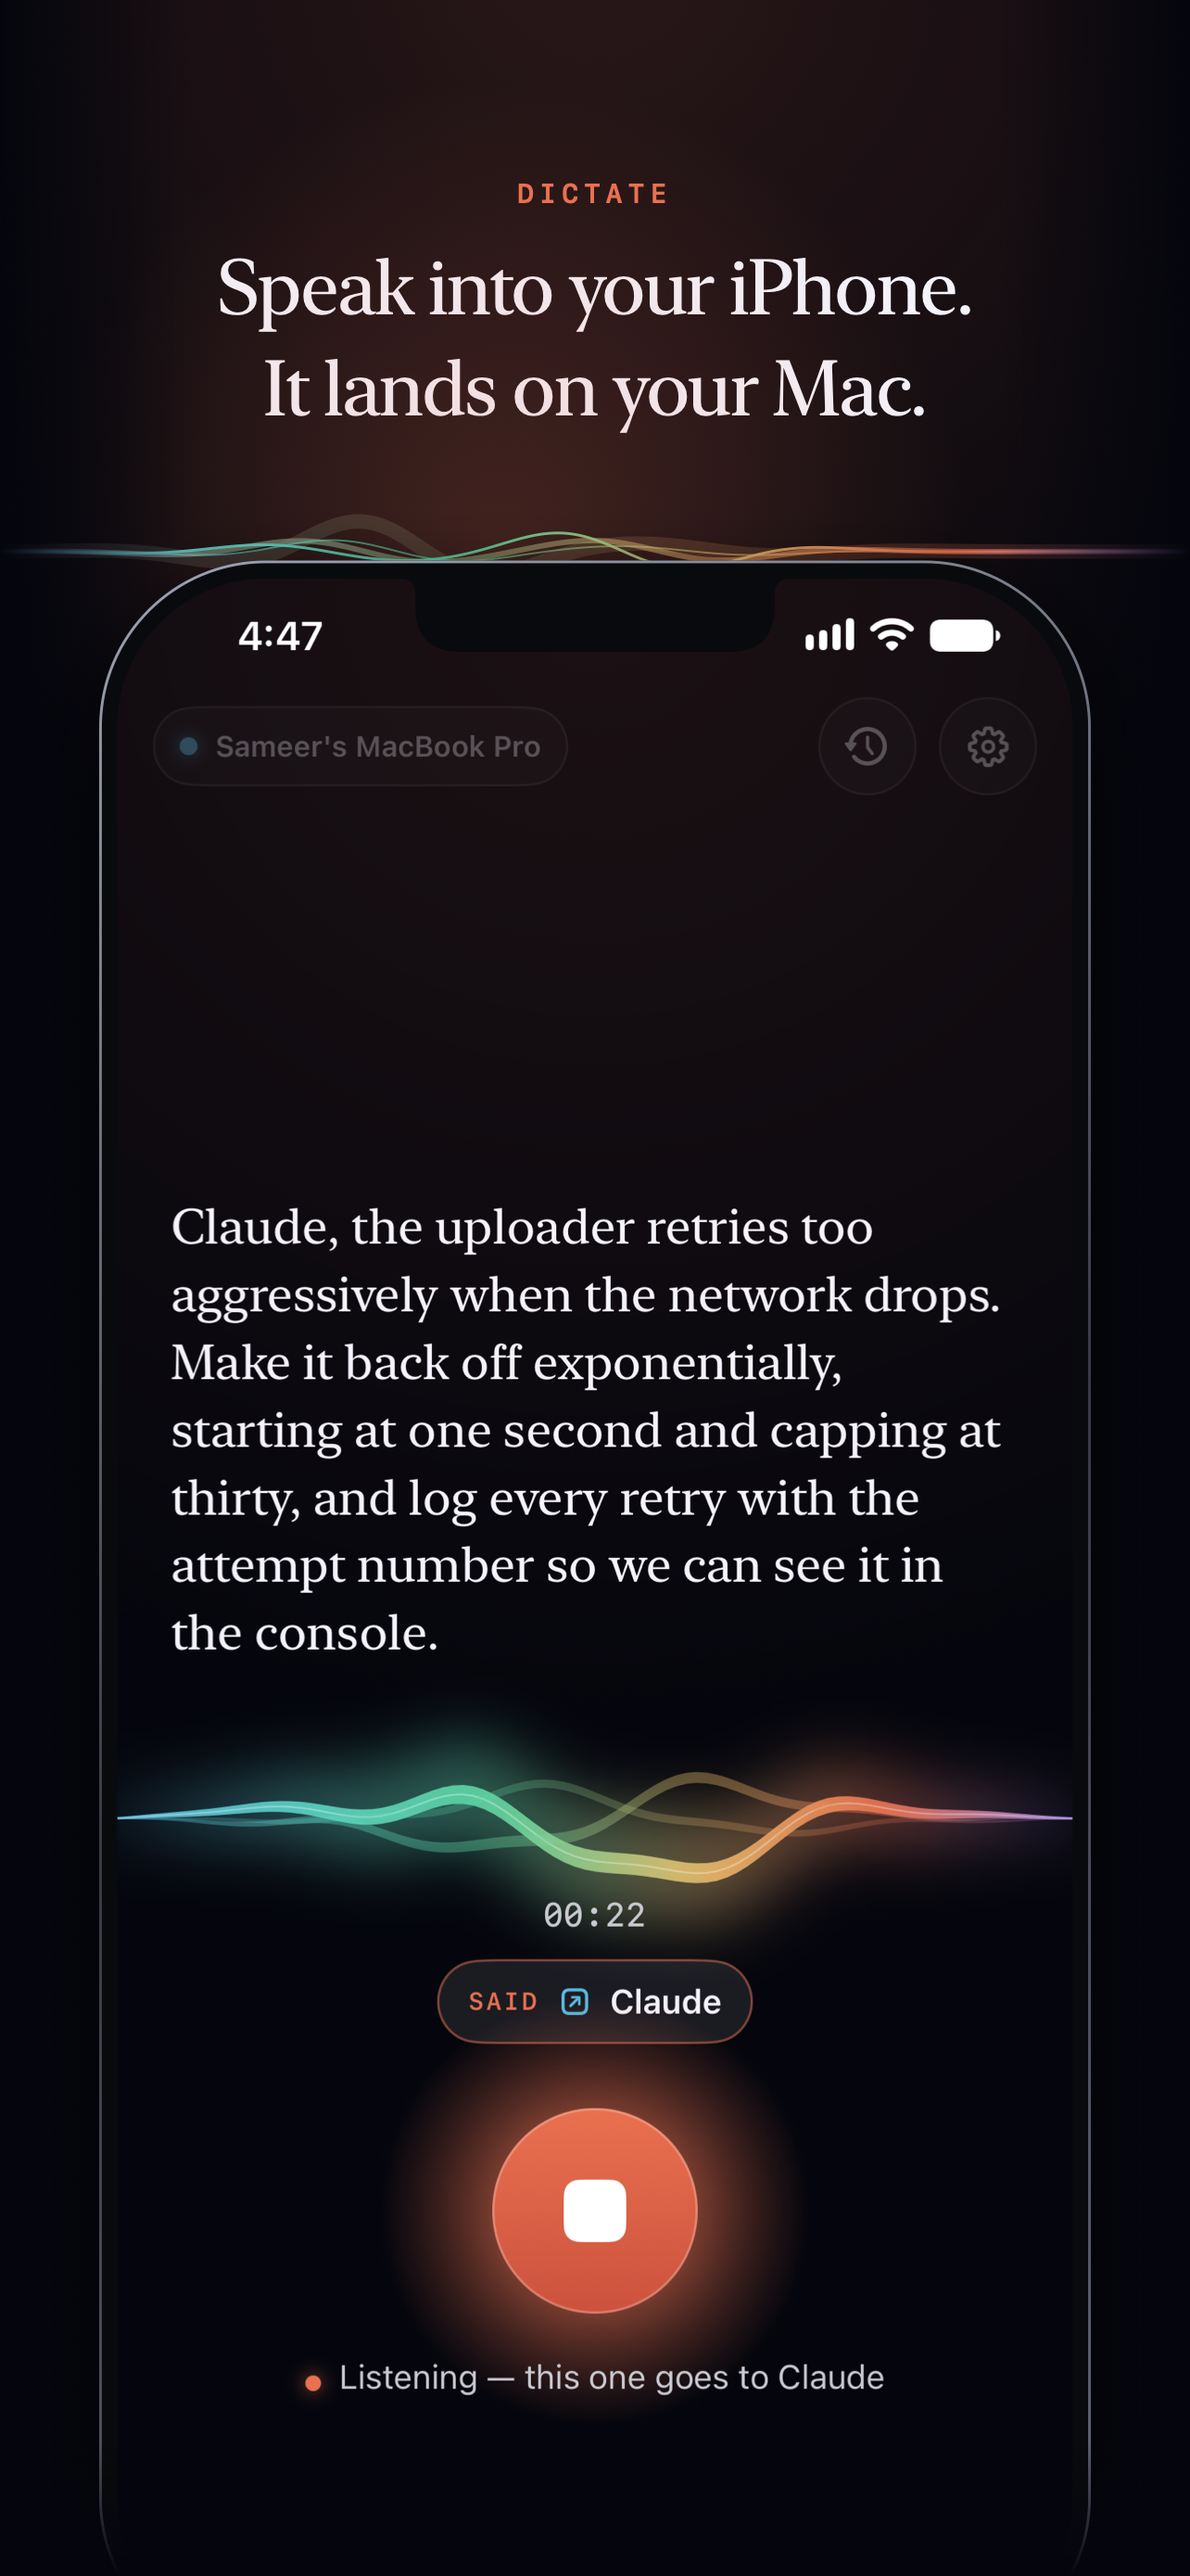
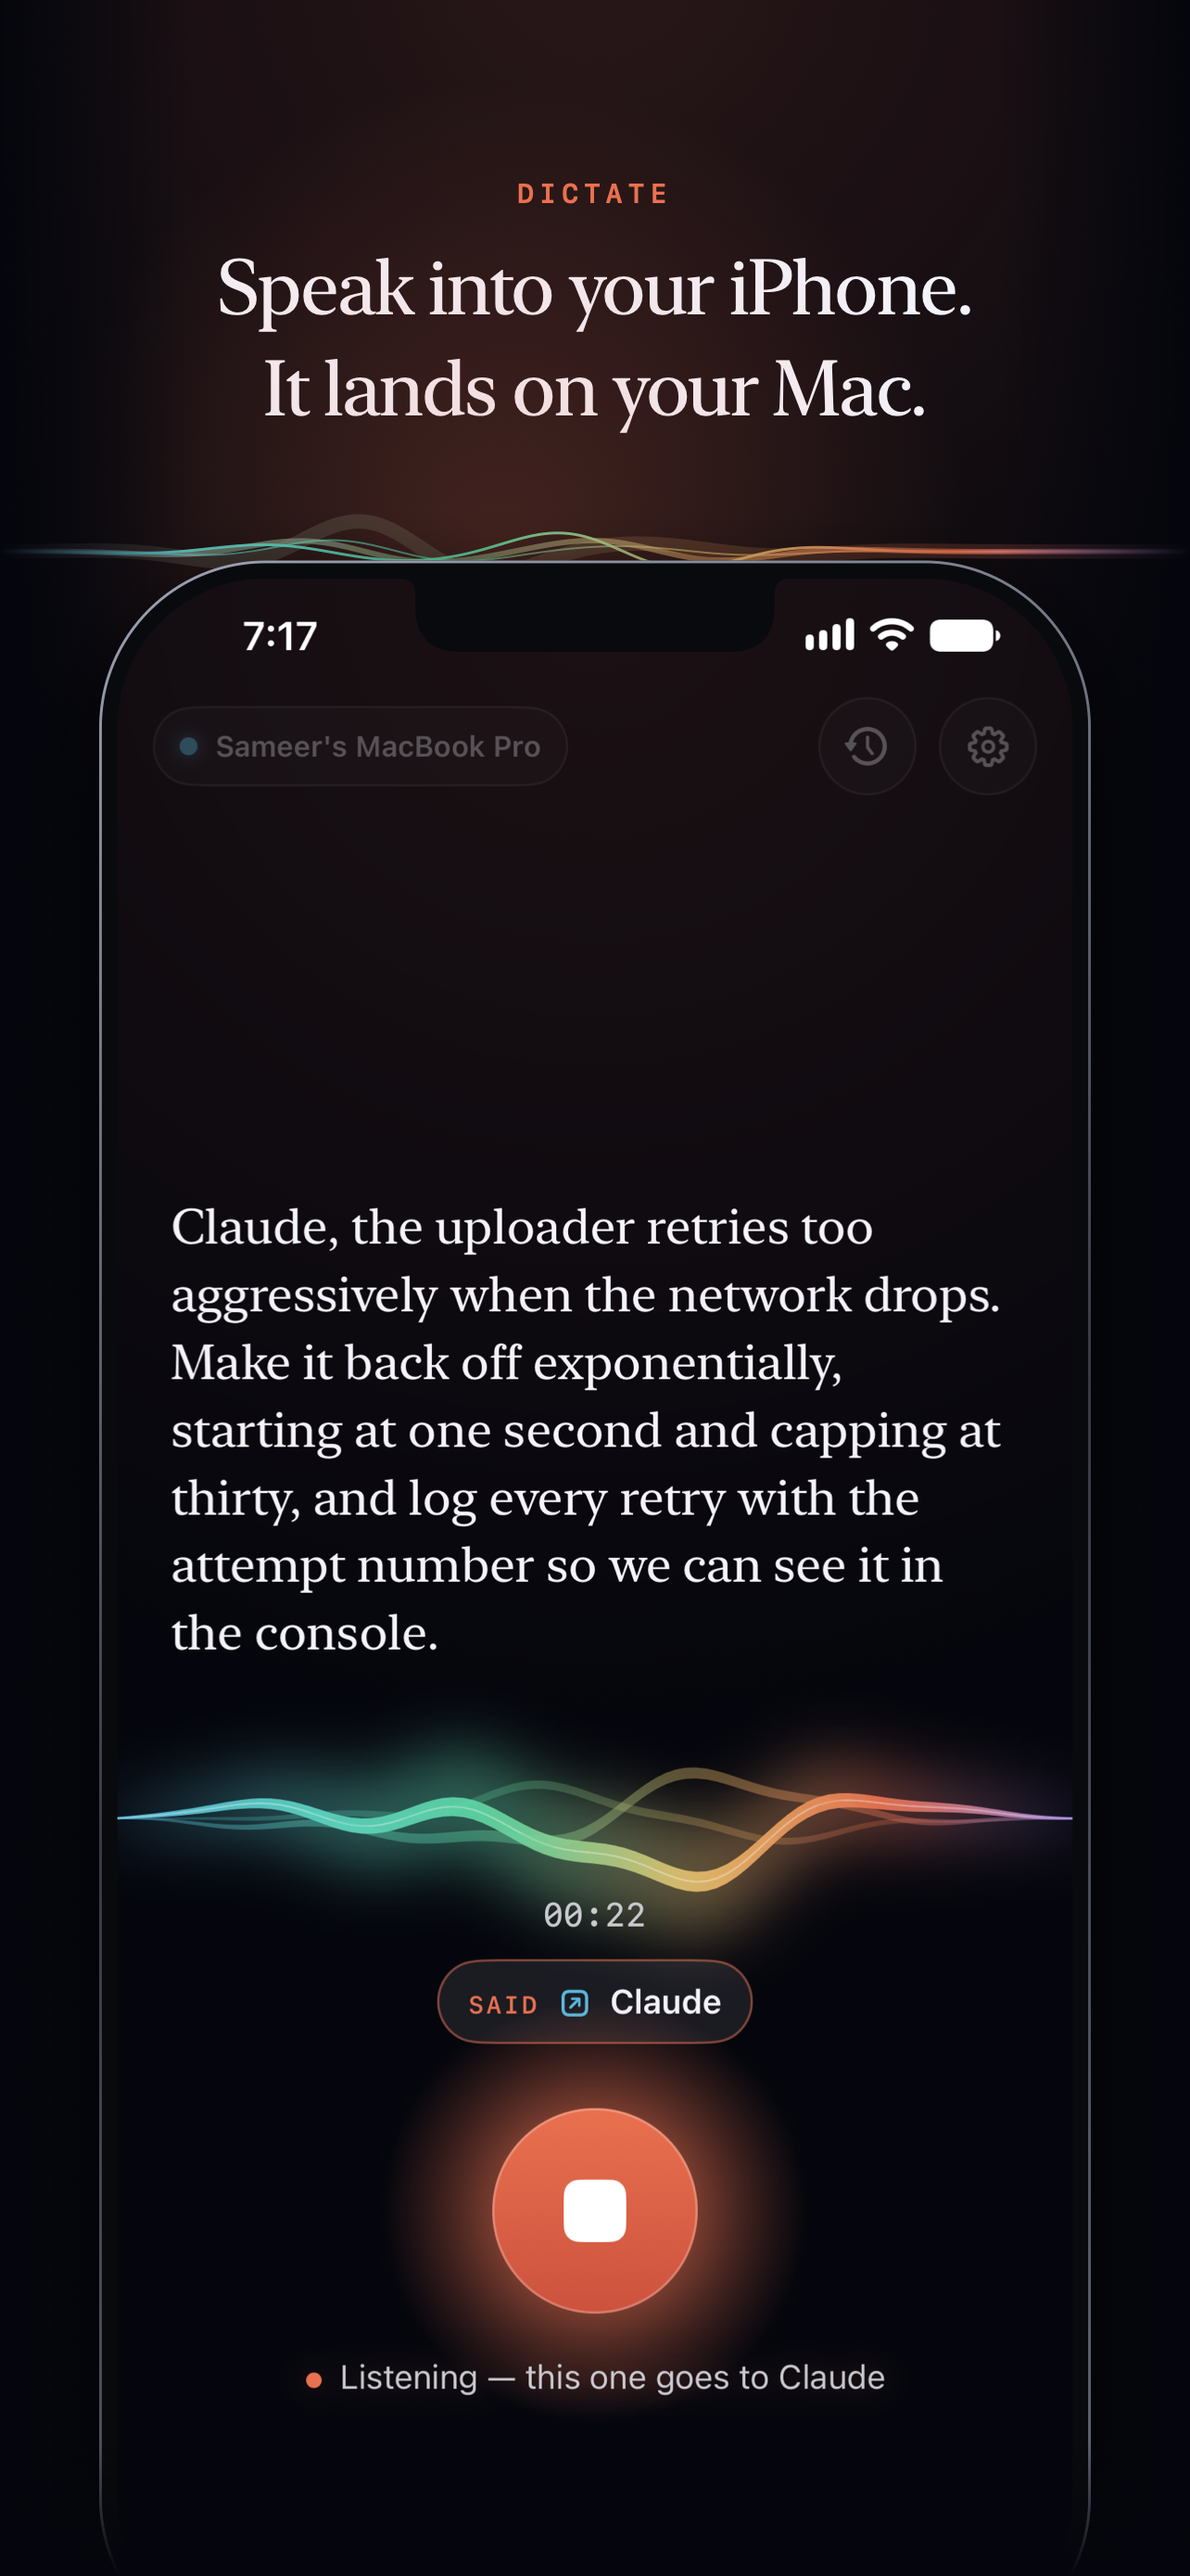
iOS: the Send-to chip picks its one-line or stacked form by text size (ViewThatFits could settle on stacked when "SAID" swapped in mid-recording); App Store screenshots re-rendered for the polished UI (both sizes, captions unchanged)

diff --git a/iOS/Macrophone/UI/SendTo.swift b/iOS/Macrophone/UI/SendTo.swift
@@ -49,6 +49,7 @@ extension ProfileSummary {
 /// The chip by the mic: "SEND TO  → Claude ⌄".
 struct SendToChip: View {
     @EnvironmentObject var model: AppModel
+    @Environment(\.dynamicTypeSize) private var typeSize
     @ObservedObject var recorder: Recorder
     var recording: Bool
 
@@ -76,10 +77,14 @@ struct SendToChip: View {
         }
         let shape = RoundedRectangle(cornerRadius: 19, style: .continuous)
         Button { model.sheet = .sendTo } label: {
-            // One line when it fits; the kicker over the name under huge type.
-            ViewThatFits(in: .horizontal) {
-                HStack(alignment: .firstTextBaseline, spacing: 8) { kicker; target.fixedSize() }
-                VStack(alignment: .leading, spacing: 4) { kicker; target }
+            // One line; the kicker over the name under accessibility sizes. Picked by text size, not
+            // ViewThatFits, which could settle on the stacked form mid-change when "SAID" swapped in.
+            Group {
+                if typeSize.isAccessibilitySize {
+                    VStack(alignment: .leading, spacing: 4) { kicker; target }
+                } else {
+                    HStack(alignment: .firstTextBaseline, spacing: 8) { kicker; target }
+                }
             }
             .padding(.horizontal, 14)
             .padding(.vertical, 8)
